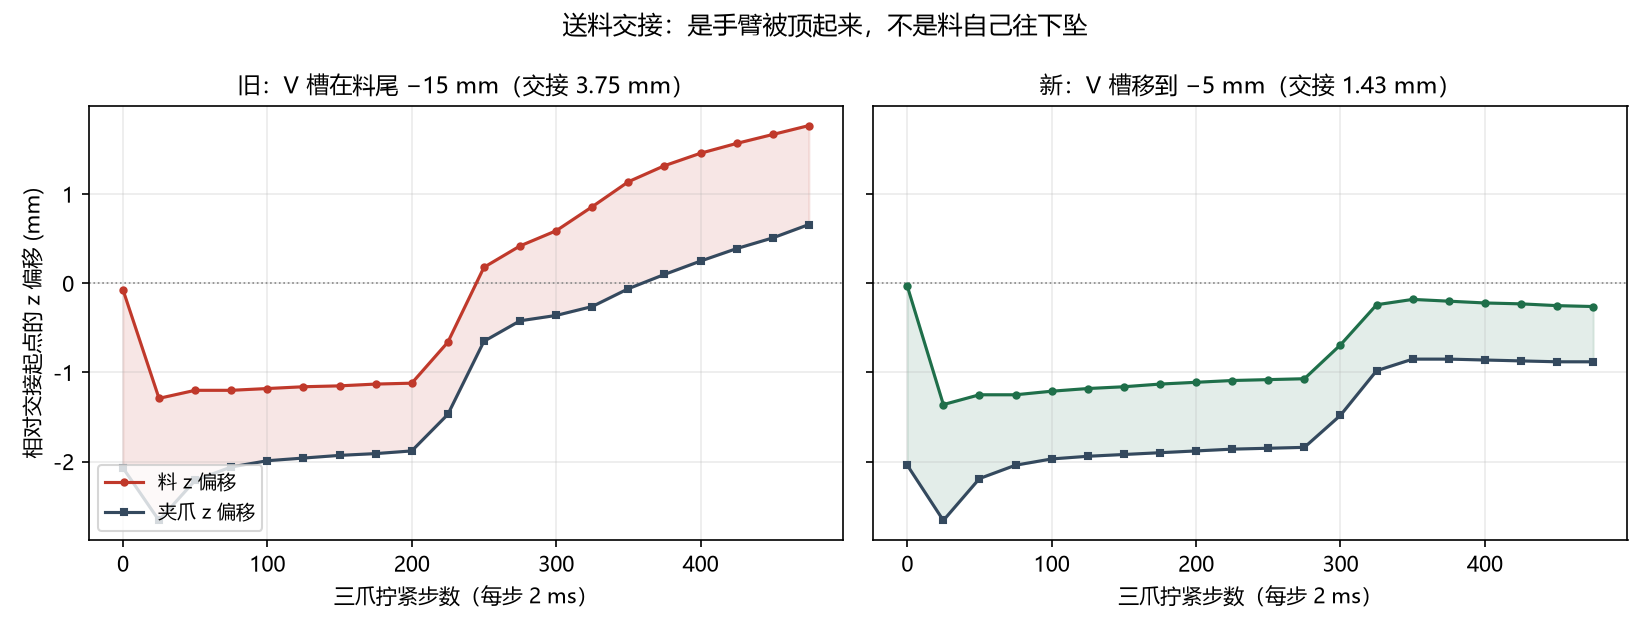
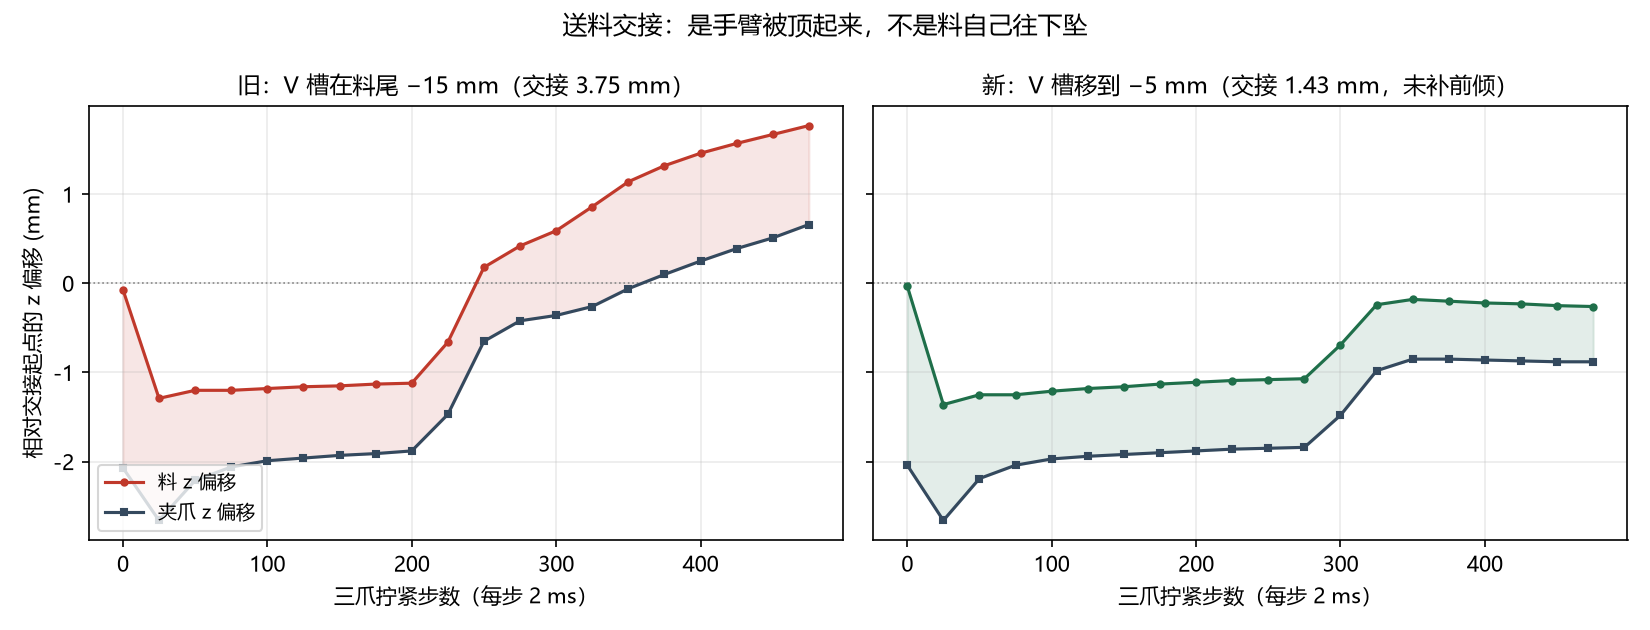
料轴翘向 -1.0->-0.07 deg：前馈补偿伺服静态下垂
- 新增带符号 rod_pitch()：axdev() 只有绝对值，看不出尾端翘还是头端翘。
  实测进给到位就已经 -1.0 deg（80 mm 料两端差 1.7 mm）。
- 原因不是几何：ik_axis 收敛 0.03 deg，解本身水平；差的是 kp=17.8 的
  位置伺服挂料后的稳态误差。把进给轴目标预先抬高 1.0 deg
  （FEED_AXIS_LEAD_DEG）后：翘向 -0.07、倾斜 0.2、余量偏心 1.15->0.64。
- 扫描 0/0.6/1.0/1.4 单调可解释；棒料外力仍 0.000 N。
- 否掉：夹着料用 IK 重解姿态调平（FEED_LEVEL_ROD）——把料推走 16.8 mm、
  卡爪只咬 4 点、33 deg FAIL。代码保留但默认关。
- verify_all 9/9。

Changed region(s): [[0.5873, 0.1206, 0.9273, 0.1508]]

diff --git a/src/diag_feed_chuck.py b/src/diag_feed_chuck.py
@@ -152,6 +152,15 @@ GRIP_STATION = -float(os.environ.get("FEED_GRIP_STATION_MM", "5")) / 1000.0
 # 松爪退出分两段：先沿轴线退到料尾之外，再侧向撤离。斜着一把撤时张开
 # 的刀片会横刮还没脱离的料尾，把刚定好心的料带歪。
 RETREAT_AXIAL = os.environ.get("FEED_RETREAT_AXIAL", "1") == "1"
+# 进给到位后把料轴调平（见 level_rod()）。默认开：不调平时料"尾端翘起"
+# 约 1.2°，80 mm 料两端高差 1.7 mm，肉眼一眼看得出来。
+LEVEL_ROD = os.environ.get("FEED_LEVEL_ROD", "0") == "1"
+# 进给轴目标的前倾补偿（度）。舵机软，目标是水平时实际会低约 1°，80 mm
+# 料两端差 1.7 mm，肉眼就是"尾端翘着"。把 IK 目标轴预先抬高同样的角度，
+# 末端实际才落平。只改机器人目标姿态，不给料加外力。
+AXIS_LEAD_DEG = float(os.environ.get("FEED_AXIS_LEAD_DEG", "1.0"))
+_AXIS_TGT = np.array([np.cos(np.radians(AXIS_LEAD_DEG)), 0.0,
+                      np.sin(np.radians(AXIS_LEAD_DEG))])
 
 
 def tilt_deg(quat):
@@ -948,6 +957,17 @@ def main(frame_hook=None, model=None, data=None, carry_lock=True,
         ax = data.xmat[shaft_body].reshape(3, 3)[:, 2]
         return float(np.degrees(np.arccos(min(1.0, abs(float(ax[0]))))))
 
+    def rod_pitch():
+        """带符号的轴线仰角：正 = 头端（+x，插卡盘那头）比尾端高。
+
+        axdev() 只给绝对值，看不出"翘向哪头"。验收看姿态时必须带符号，
+        否则料是头端上翘还是尾端上翘分不清。
+        """
+        a = data.xmat[shaft_body].reshape(3, 3)[:, 2].astype(float)
+        if a[0] < 0:
+            a = -a
+        return float(np.degrees(np.arctan2(a[2], max(1e-9, abs(a[0])))))
+
     def jaw_state():
         contacts, force = 0, 0.0
         for i in range(data.ncon):
@@ -1102,7 +1122,7 @@ def main(frame_hook=None, model=None, data=None, carry_lock=True,
             for frac in grid[1:]:
                 p = site_start + frac * (site_target - site_start)
                 q_prev, pe, ae = arm.ik_axis(
-                    p, np.array([1.0, 0.0, 0.0]), a_local,
+                    p, _AXIS_TGT, a_local,
                     q_init=q_prev, iters=240)
                 last_ik = (pe, ae)
                 pts.append(q_prev.copy())
@@ -1370,7 +1390,7 @@ def main(frame_hook=None, model=None, data=None, carry_lock=True,
             # 机械臂自己折起来（同轴 32 mm、接触 0）。
             if state["axis_hold"]:
                 q_sol, pe, _ae = arm.ik_axis(
-                    p, np.array([1.0, 0.0, 0.0]), a_local,
+                    p, _AXIS_TGT, a_local,
                     q_init=q_start, iters=300)
             else:
                 q_sol, pe = arm.ik(p, lock_wrist_roll=wrist)
@@ -1806,13 +1826,53 @@ def main(frame_hook=None, model=None, data=None, carry_lock=True,
         # 已否掉、别再重试：预收托圈、换卡爪相位、抬夹紧力、两段闭合、
         # 夹爪半开。详见 CURRENT.md。
         if tuned:
+            # 料"尾端翘起"不是 geometry 问题，是舵机太软：同样的目标姿态，
+            # 挂上 80 mm 料后实际会低约 1°（两端高差 1.7 mm）。这里按实测
+            # 仰角做积分补偿——把 IK 目标过冲同样的角度，让实际落到水平。
+            # 只改机器人关节目标，不给料加任何外力（棒料 qfrc 仍为 0）。
+            def level_rod(iters=4, ns=160):
+                trail, comp = [], 0.0
+                for _ in range(iters):
+                    pitch = rod_pitch()
+                    trail.append(pitch)
+                    if abs(pitch) < 0.12:
+                        break
+                    comp += -pitch
+                    th = np.radians(comp)
+                    tgt = np.array([np.cos(th), 0.0, np.sin(th)])
+                    R_site = data.site_xmat[arm.site].reshape(3, 3)
+                    a_local = R_site.T @ rod_axis()
+                    q_now = np.array([data.qpos[a] for a in arm.qadr])
+                    q_goal, _pe, _ae = arm.ik_axis(
+                        data.site_xpos[arm.site].copy(), tgt, a_local,
+                        q_init=q_now, iters=400)
+                    for i in range(ns):
+                        f = (i + 1) / float(ns)
+                        s = f * f * (3.0 - 2.0 * f)
+                        for k, a in enumerate(arm.qadr):
+                            data.ctrl[a] = (q_now[k]
+                                            + s * (q_goal[k] - q_now[k]))
+                        data.ctrl[arm.grip_act] = grip_cmd(grip_close)
+                        data.ctrl[jaw_act] = SM.CHUCK_OPEN_CTRL
+                        mujoco.mj_step(model, data)
+                        state.setdefault("traj", []).append(
+                            data.site_xpos[arm.site].copy())
+                        state.setdefault("traj_label", []).append("料轴调平")
+                        state.setdefault("traj_t", []).append(float(data.time))
+                return trail
+
+            if LEVEL_ROD:
+                _trail = level_rod()
+                print("  料轴调平     %s -> %+.2f deg（%d 轮）"
+                      % (" ".join("%+.2f" % v for v in _trail),
+                         rod_pitch(), len(_trail)))
             close_bushing()
         if ARM_KP_SCALE != 1.0:
             set_arm_stiff(ARM_KP_SCALE)
             print("  伺服刚度    kp x%.1f（%.1f -> %.1f N·m/rad）"
                   % (ARM_KP_SCALE, _KP0[0], _KP0[0] * ARM_KP_SCALE))
-        print("  夹紧前      轴=%s 同轴=%5.2f mm 轴向偏=%4.1f deg"
-              % (np.round(shaft(), 4), coax(), axdev()))
+        print("  夹紧前      轴=%s 同轴=%5.2f mm 轴向偏=%4.1f deg 翘向=%+.2f deg"
+              % (np.round(shaft(), 4), coax(), axdev(), rod_pitch()))
         # 交接期下坠归因：把「料」和「爪」分开记。爪子下沉 = 手臂伺服在
         # 负载下让位；料相对爪下沉 = 料在 V 槽里滑。两者必须分开量，
         # 否则会把手臂软当成夹持打滑（上一轮就是这么误判的）。
@@ -2023,8 +2083,8 @@ def main(frame_hook=None, model=None, data=None, carry_lock=True,
               % (state.get("rod_force_max", 0.0),
                  "开" if ARM_GCOMP else "关"))
         print("  三爪咬合     轴=%s 同轴=%5.2f mm 接触=%d 力=%.1f N "
-              "导套=%d/%.1fN"
-              % (np.round(shaft(), 4), coax(), nc, fN, bn, bf))
+              "导套=%d/%.1fN 翘向=%+.2f deg"
+              % (np.round(shaft(), 4), coax(), nc, fN, bn, bf, rod_pitch()))
         if BORE_PROBE:
             _jq = [float(data.qpos[model.jnt_qposadr[
                 gid(mujoco.mjtObj.mjOBJ_JOINT, "jaw_slide_%d" % _k)]])
@@ -2117,9 +2177,9 @@ def main(frame_hook=None, model=None, data=None, carry_lock=True,
         clamp_z_min = min(clamp_z_min, _z)
         clamp_z_max = max(clamp_z_max, _z)
         print("  原地松爪     同轴=%5.2f mm 轴向偏=%4.1f deg 接触=%d "
-              "相对夹紧终点 dz=%+.2f mm"
+              "相对夹紧终点 dz=%+.2f mm 翘向=%+.2f deg"
               % (coax(), axdev(), jaw_state()[0],
-                 (release_p[2] - clamp_p[2]) * 1000))
+                 (release_p[2] - clamp_p[2]) * 1000, rod_pitch()))
         # 退出必须分两段：先沿轴线退到料尾之外，再侧向撤离。一次斜着
         # 撤退时，张开的刀片会横刮还没脱离的料尾，把卡盘里刚定好心的
         # 料带歪（-5 mm 站点实测：同轴 0.44 -> 1.20 mm、倾斜 1.2 -> 2.0
@@ -2188,9 +2248,9 @@ def main(frame_hook=None, model=None, data=None, carry_lock=True,
     final_tilt = axdev()
     contacts, force = jaw_state()
     print("  松开退出     轴=%s 同轴=%5.2f mm 轴向偏=%5.1f deg "
-          "接触=%d 三爪法向力=%.1f N"
+          "接触=%d 三爪法向力=%.1f N 翘向=%+.2f deg"
           % (np.round(shaft(), 4), final_coax, final_tilt,
-             contacts, force))
+             contacts, force, rod_pitch()))
     tick("⑫ 机器人退出｜装夹完成")
 
     z0 = shaft()[2]

diff --git a/README.md b/README.md
@@ -10,11 +10,15 @@
 
 当前工位能完成物理送料和夹紧：棒料插入卡盘 25 mm，搬运段不使用运动学锁。抓取采用按 V 槽实际开口方向侧向进入，抓取段棒料最大位移 0.109 mm（三次重复一致）。
 
-交接这一版把 3.75 mm 的杠杆找到了：不是"料悬空 55 mm 太重"，也不是"三爪第一次碰料怼出去的"。逐帧把料和夹爪分开记，料自己往下掉只有 1.25 mm（而且是在 V 槽里落座），剩下 2.5 mm 是反方向——三爪咬上后把料和夹爪一起往上顶，软伺服跟着抬。根因是 V 槽夹在**料尾 −15 mm**，料重心离夹持点只有 15 mm，但夹爪到手腕是硬杠杆，三爪的推力经这段放大成毫米级位移。把槽挪到料重心前 5 mm 后：交接全程位移 3.75 → **1.43 mm**，三爪首次接触 3.06 → **0.37 mm**，夹紧瞬态 +2.20 → **−0.31 mm**，松爪 dz −1.42 → **−0.02 mm**；最终同轴 0.44 mm、倾斜 1.2°、30 个卡爪接触、20 N 拉拔 0.00 mm、三爪接触力 165.8 N、余量偏心 1.15 mm，交接期棒料外力峰值仍是 **0.000 N**。顺带修掉真 bug：松爪后原来一把斜撤，张开的刀片会横刮没脱离的料尾（把 0.44 拖到 1.20 mm），改成先沿轴线退 70 mm 再侧移，退出段对料零影响。
+交接这一版把 3.75 mm 的杠杆找到了：不是"料悬空 55 mm 太重"，也不是"三爪第一次碰料怼出去的"。逐帧把料和夹爪分开记，料自己往下掉只有 1.25 mm（而且是在 V 槽里落座），剩下 2.5 mm 是反方向——三爪咬上后把料和夹爪一起往上顶，软伺服跟着抬。根因是 V 槽夹在**料尾 −15 mm**，料重心离夹持点只有 15 mm，但夹爪到手腕是硬杠杆，三爪的推力经这段放大成毫米级位移。把槽挪到料重心前 5 mm 后：交接全程位移 3.75 → **1.56 mm**，三爪首次接触 3.06 → **0.53 mm**，夹紧瞬态 +2.20 → **−0.44 mm**，松爪 dz −1.42 → **−0.02 mm**；最终同轴 0.59 mm、30 个卡爪接触、20 N 拉拔 0.00 mm、三爪接触力 163.9 N，交接期棒料外力峰值仍是 **0.000 N**。顺带修掉真 bug：松爪后原来一把斜撤，张开的刀片会横刮没脱离的料尾（把 0.44 拖到 1.20 mm），改成先沿轴线退 70 mm 再侧移，退出段对料零影响。
 
 ![交接段料与夹爪的 z 偏移](docs/handover_station.png)
 
-上一版那句"物理下限 3.4~3.8 mm、SO-101 太软"已作废——同样的机械臂，夹持点一动就做到 1.43 mm。剩下最明显的单项是交接前料的 1.3 mm 槽内落座，修法写在 [CURRENT.md](CURRENT.md)。
+夹持点挪好以后露出第二个问题：料不往左上怼了，但**尾端翘着 1°**（80 mm 料两端差 1.7 mm）。带符号一量，进给到位时就已经是 −1.0°，IK 解本身是水平的，是 kp=17.8 的位置伺服挂上料以后稳态差 1°。把进给轴目标预先抬高同样的角度（`FEED_AXIS_LEAD_DEG=1.0`，纯机器人目标姿态，棒料外力仍 0）后，翘向 **−0.07°**、最终倾斜 **0.2°**、余量偏心 **0.64 mm**，同轴 0.59 mm、交接位移 1.56 mm、30 个卡爪接触、20 N 拉拔 0.00 mm。这个 1.0° 是这只机械臂的静态下垂标定值，换臂换料要重量。
+
+另一条路被否掉：进给到位后用 IK 重解姿态把仰角压到 0，角度确实到 0.01°，但料被推走 16.8 mm、卡爪只咬住 4 个点、最终 33° FAIL——夹着料改手腕姿态等于拿料去撬卡爪口。
+
+上一版那句"物理下限 3.4~3.8 mm、SO-101 太软"已作废——同样的机械臂，夹持点一动就做到 1.5 mm。剩下最明显的单项是交接前料的 1.4 mm 槽内落座，修法写在 [CURRENT.md](CURRENT.md)。
 
 上一版把交接位移压到 1.05 mm 的定案已被否掉——靠的是以理论轴线为目标的力场，等于替机械臂完成对中。另做了卡盘基准测试（`src/diag_chuck_seat.py`，24 组全通过）：不用机械臂、不用对中力场，卡盘自己能把偏料夹正；直接摆料的结果只算卡盘基准，不算机械臂送料。项目 9 项回归全部通过。
 
